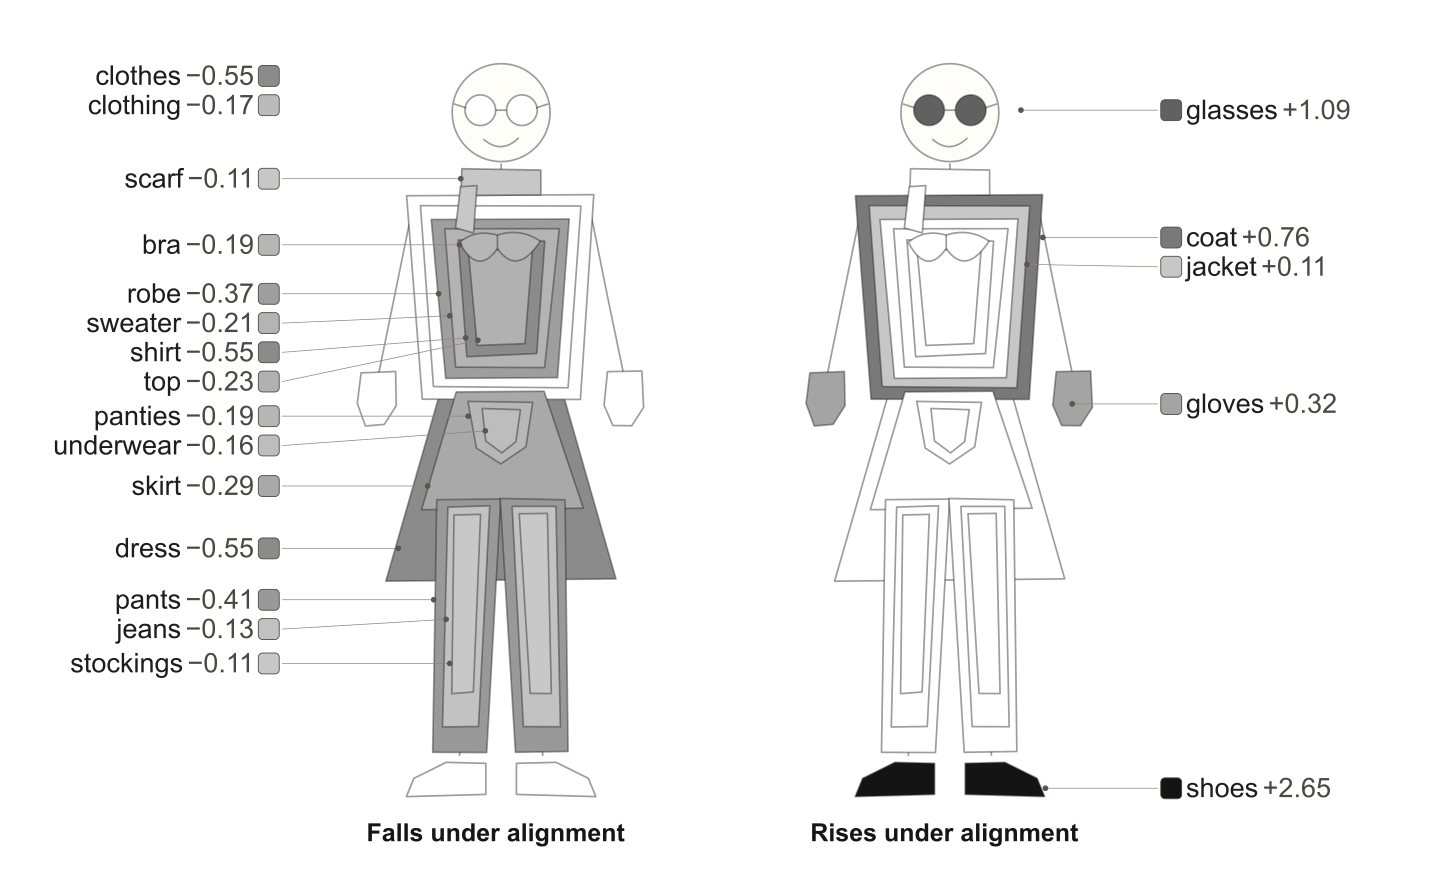
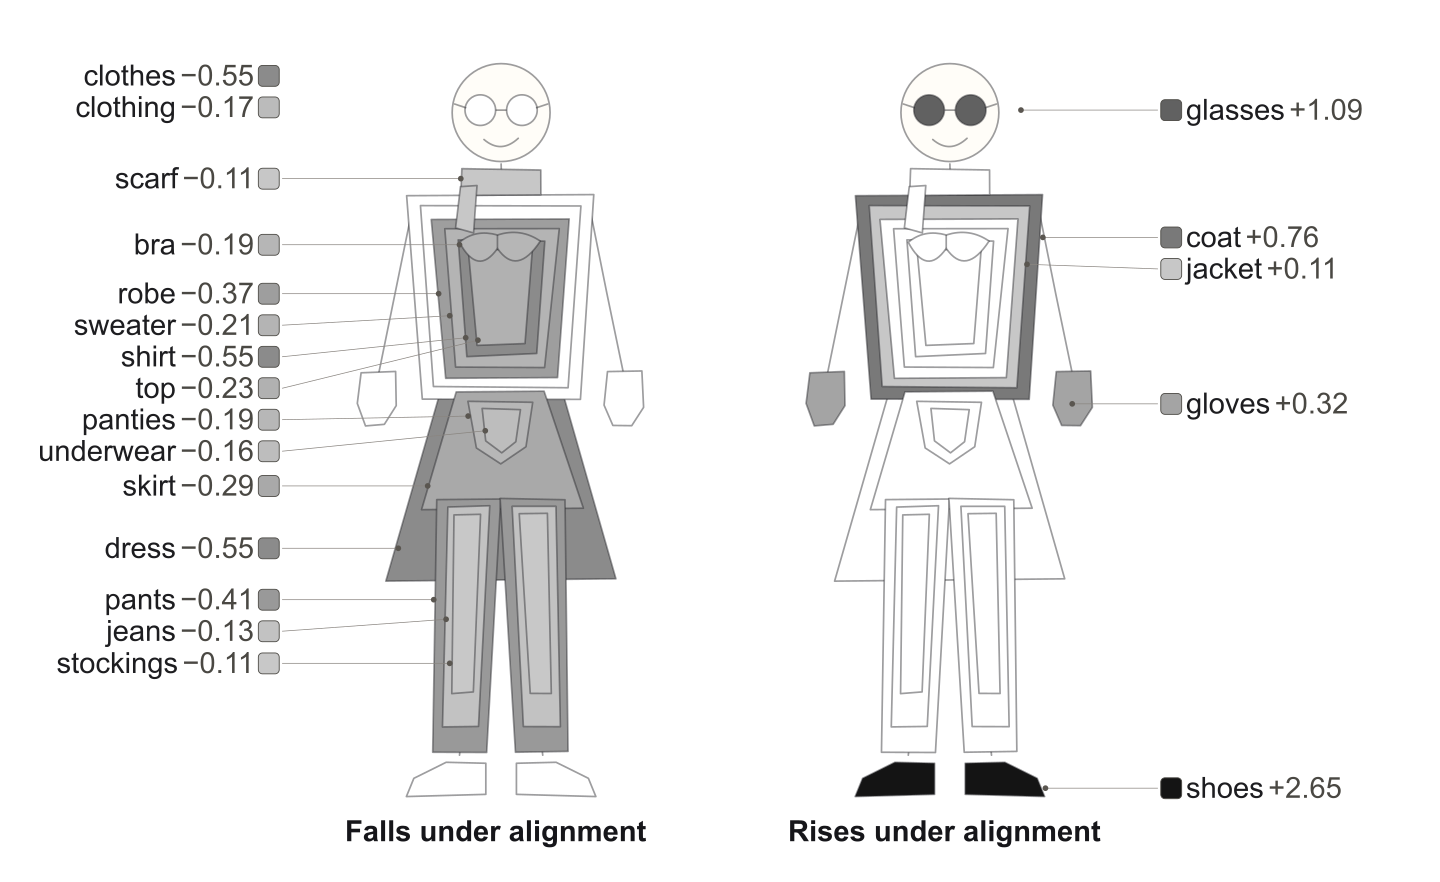
metonymy: garment pair type to 7 pt so a reduction to 4.33 in clears 6 pt
Labels 6.5 -> 7 pt and the two subtitles 6 -> 7 pt (RH, 2026-09-24). At
the house 4.8 in width CI's usual 4.33 in print is a 90% reduction, which
put 6.5/6 pt at 5.9/5.4, under the 6 pt floor; 7 pt prints at about 6.3.
The 15-label stack still fits at body scale 0.85, no overlaps, nothing at
the canvas edges (checked on the render). The run log's size line now
prints from the constants; it said 6.5/6.0 after they moved.

Seat: dario

diff --git a/experiments/displacement/metonymy/garment_pair.py b/experiments/displacement/metonymy/garment_pair.py
@@ -84,9 +84,9 @@ def pt(n):
     return n / PPU
 
 
-FS = pt(6.5)             # one size throughout, per the brief
+FS = pt(7.0)             # one size throughout; 7 pt so a reduction to CI's 4.33 in print width stays over the 6 pt floor (RH, 2026-09-24)
 PANEL_FS = pt(9.0)
-AXIS_FS = pt(6.0)
+AXIS_FS = pt(7.0)
 SWATCH = pt(5.0)
 
 BODY_SCALE = 0.85
@@ -356,7 +356,8 @@ def build():
     with open(svg_path, "w") as f:
         f.write("\n".join(o) + "\n")
     print("-> %s  (%.2f x %.2f in)" % (svg_path, PHYS_W, PHYS_H))
-    print("   label font: 6.5 pt, panel letter: 9.0 pt, axis: 6.0 pt")
+    #: WIRED: printed from the constants, not typed -- it said 6.5/6.0 after they moved
+    print("   label font: %.1f pt, axis: %.1f pt" % (FS * PPU, AXIS_FS * PPU))
 
     # Print label placements for audit
     print("\n  Base label placements:")
